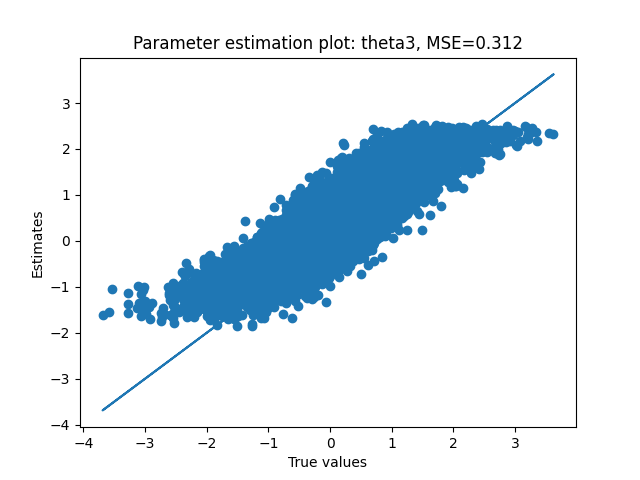
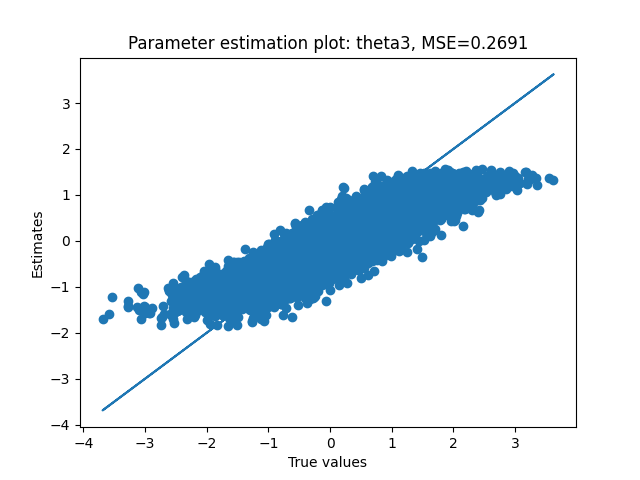
added early stopping

Changed region(s): [[0.25, 0.25, 0.875, 0.625], [0.1875, 0.0625, 0.8438, 0.125], [0.1562, 0.5938, 0.5, 0.6875]]

diff --git a/main.py b/main.py
@@ -53,8 +53,8 @@ with open("./config.yml", "r") as f:
 logger = CSVLogger("logs", name="my_logs")
 trainer = Trainer(fast_dev_run=False,
                   max_epochs=cfg['max_epochs'],
-                  logger=logger)#,
-                  #callbacks=[EarlyStopping(monitor='train_loss', min_delta=1e-8, patience=100, mode='min')])
+                  logger=logger,
+                  callbacks=[EarlyStopping(monitor='train_loss', min_delta=1e-8, patience=100, mode='min')])
 QMatrix = genfromtxt(cfg['Q_matrix_file'], delimiter=',')
 vae = VariationalAutoencoder(latent_dims=cfg['latent_dims'],
                              hidden_layer_size=int((28+2)*cfg['latent_dims']/2),
@@ -100,8 +100,8 @@ for dim in range(3):
     mse = MSE(ai_est, ai_true)
     plt.scatter(y=ai_est, x=ai_true)
     plt.plot(ai_true, ai_true)
-    for i, x in enumerate(ai_true):
-        plt.text(ai_true[i], ai_est[i], i)
+    #for i, x in enumerate(ai_true):
+    #    plt.text(ai_true[i], ai_est[i], i)
     plt.title(f'Parameter estimation plot: a{dim+1}, MSE={round(mse,4)}')
     plt.xlabel('True values')
     plt.ylabel('Estimates')
